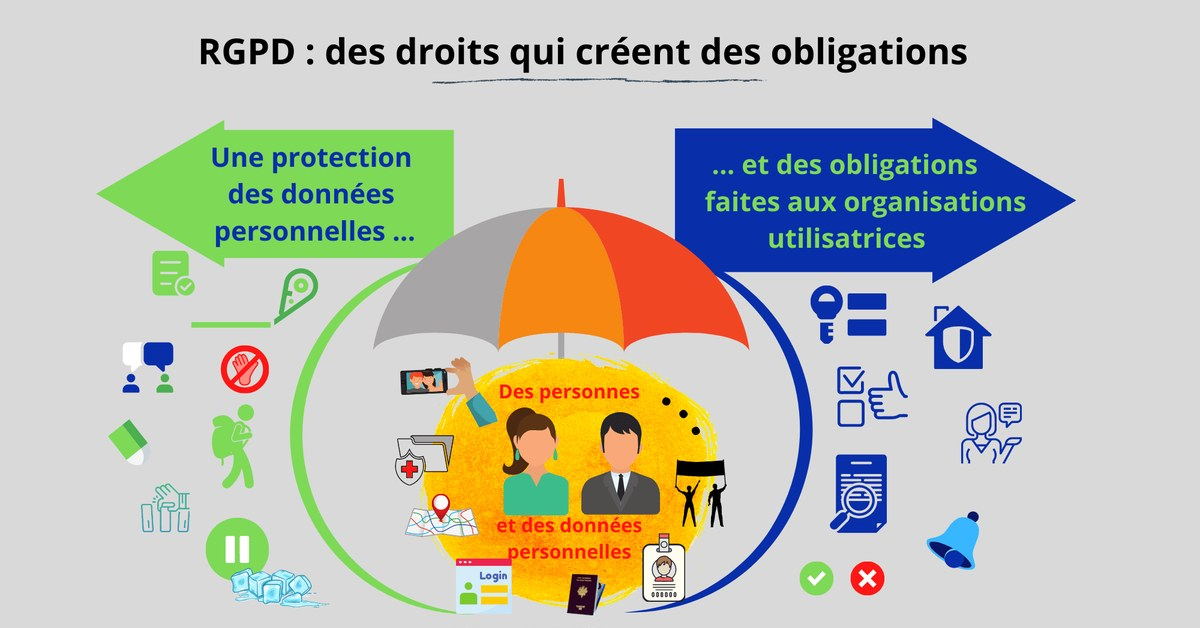
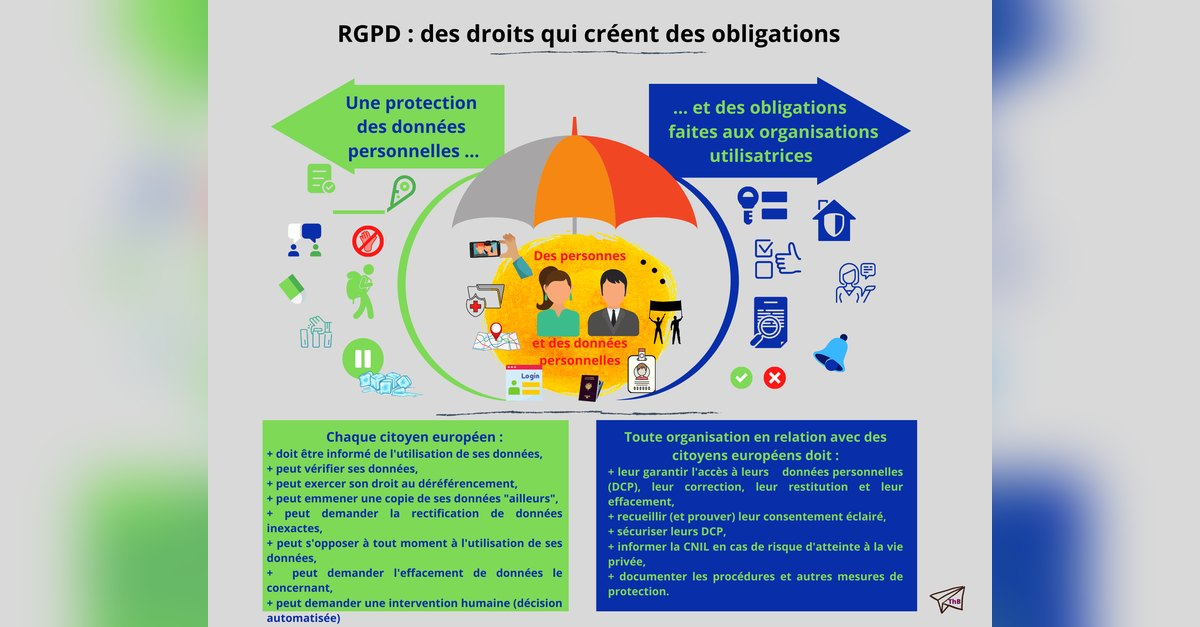
Infographies entières, série hôpital regroupée, visuel Minier recadré
- 16 infographies : carte au format naturel (rien de coupé), aperçu LinkedIn 1200x627 sur fond flou
- série « hôpital ordinaire » : une seule carte dans les listes, bloc des épisodes dans chaque article
- Les Effacées : visuel recadré sur la tête, la couverture et la main

Claude-Session: https://claude.ai/code/session_01Xt9mEEywxdvzQziNeka59o

diff --git a/src/data/series.ts b/src/data/series.ts
@@ -1,0 +1,29 @@
+import { getCollection } from 'astro:content';
+
+// Séries d'articles : un identifiant (champ `serie` de l'en-tête) et un numéro d'épisode (`rang`).
+export const series: Record<string, { titre: string }> = {
+  'hopital-ordinaire': { titre: 'Plongée dans le quotidien d’un hôpital ordinaire' },
+};
+
+type Entree = { id: string; data: { serie?: string; rang?: number; brouillon: boolean; type: string; title: string } };
+
+export async function episodes(serie: string) {
+  const liste = (await getCollection('articles', ({ data }) => !data.brouillon && data.serie === serie)) as Entree[];
+  return liste.sort((a, b) => (a.data.rang ?? 0) - (b.data.rang ?? 0));
+}
+
+// Dans les listes (accueil, sommaire, rubriques), une série ne forme qu'une seule carte :
+// elle prend la place de son épisode le plus récent et renvoie vers l'épisode 1.
+export async function regrouper<T extends Entree>(liste: T[]): Promise<T[]> {
+  const vus = new Set<string>();
+  const sortie: T[] = [];
+  for (const a of liste) {
+    const s = a.data.serie;
+    if (!s) { sortie.push(a); continue; }
+    if (vus.has(s)) continue;
+    vus.add(s);
+    const eps = await episodes(s);
+    sortie.push((eps.find((e) => e.data.rang === 1) as T) ?? a);
+  }
+  return sortie;
+}

diff --git a/src/styles/revue.css b/src/styles/revue.css
@@ -126,6 +126,14 @@
   .video{position:relative;aspect-ratio:16/9;margin:28px 0}
   .video iframe{position:absolute;inset:0;width:100%;height:100%;border:0}
   .card-img{display:block;width:calc(100% + 44px);margin:-24px -22px 18px;aspect-ratio:1.91/1;object-fit:cover;background:var(--line)}
+  .card-img--entiere{aspect-ratio:auto;object-fit:contain;height:auto;background:#fff}
+  /* ---------- série d'articles ---------- */
+  .serie{margin-top:36px;padding:18px 22px;background:var(--card);border-left:3px solid var(--accent)}
+  .serie .eyebrow{display:block;margin-bottom:8px}
+  .serie ol{margin:0;padding-left:20px}
+  .serie li{margin:5px 0;font-size:15px;line-height:1.4}
+  .serie a{color:var(--accent)}
+  .serie li[aria-current]{font-weight:700}
   /* ---------- livres (À propos) ---------- */
   .livres{display:grid;grid-template-columns:repeat(5,1fr);gap:22px}
   @media(max-width:900px){.livres{grid-template-columns:repeat(2,1fr)}}

diff --git a/src/content.config.ts b/src/content.config.ts
@@ -20,6 +20,9 @@ const articles = defineCollection({
     image: z.string().optional(),       // chemin dans /uploads/ (visuel principal)
     image_pano: z.string().optional(),
     vignette: z.string().optional(),
+    carte: z.string().optional(),       // visuel de carte au format naturel (infographies : rien n'est coupé)
+    serie: z.string().optional(),       // identifiant de série (voir src/data/series.ts)
+    rang: z.number().optional(),        // numéro de l'épisode dans la série
     pdf: z.string().optional(),
     ancienne_url: z.string().optional(),
     hashtags: z.array(z.string()).optional(),

diff --git a/scripts/images_infographies.py b/scripts/images_infographies.py
@@ -1,0 +1,37 @@
+"""Infographies : cartes à leur format naturel (rien de coupé) et aperçu LinkedIn 1200x627
+« image entière sur fond flouté » (rien de coupé non plus).
+Usage : python3 scripts/images_infographies.py  (depuis la racine du dépôt)
+Ajoute `carte: "cartes/<nom>.jpg"` et `vignette: "vignettes/<nom>.jpg"` dans l'en-tête de chaque infographie."""
+import glob, re, os
+from PIL import Image, ImageFilter
+
+os.makedirs('public/uploads/cartes', exist_ok=True)
+for f in sorted(glob.glob('src/content/articles/*.md')):
+    t = open(f, encoding='utf-8').read()
+    if 'type: infographie' not in t:
+        continue
+    m = re.search(r'^image: "(.+)"', t, re.M)
+    if not m:
+        continue
+    nom = os.path.basename(f)[:-3][:48]
+    src = Image.open('public/uploads/' + m.group(1)).convert('RGB')
+    w, h = src.size
+    if abs(w / h - 1.91) < 0.02:      # déjà au bon format : rien à faire
+        continue
+    # 1) carte : format naturel, 900 px de large
+    carte = src.resize((900, round(900 * h / w)), Image.LANCZOS)
+    carte.save(f'public/uploads/cartes/{nom}.jpg', quality=84, optimize=True)
+    # 2) aperçu LinkedIn : image entière, centrée, sur fond flou
+    W, H = 1200, 627
+    fond = src.resize((W, round(W * h / w)), Image.LANCZOS)
+    top = (fond.height - H) // 2
+    fond = fond.crop((0, top, W, top + H)).filter(ImageFilter.GaussianBlur(28))
+    fw = round(H * w / h)
+    fg = src.resize((fw, H), Image.LANCZOS)
+    fond.paste(fg, ((W - fw) // 2, 0))
+    fond.save(f'public/uploads/vignettes/{nom}.jpg', quality=86, optimize=True)
+    # 3) en-tête
+    t = re.sub(r'^(carte|vignette): ".*"\n', '', t, flags=re.M)
+    t = t.replace(m.group(0), m.group(0) + f'\nvignette: "vignettes/{nom}.jpg"\ncarte: "cartes/{nom}.jpg"', 1)
+    open(f, 'w', encoding='utf-8').write(t)
+    print('ok', nom, (w, h))

diff --git a/src/content/articles/cyberpirates-hackers-etc-le-jeu-des-7-famillescyberpirates.md b/src/content/articles/cyberpirates-hackers-etc-le-jeu-des-7-famillescyberpirates.md
@@ -9,6 +9,7 @@ une: false
 brouillon: false
 image: "2021/08/infographie_hackers_et_pirates_les_7_familles.png"
 vignette: "vignettes/cyberpirates-hackers-etc-le-jeu-des-7-famillescy.jpg"
+carte: "cartes/cyberpirates-hackers-etc-le-jeu-des-7-famillescy.jpg"
 pdf: ""
 ancienne_url: "https://www.thierrybrenet.fr/infographie/cyberpirates-hackers-etc-le-jeu-des-7-famillescyberpirates/"
 ---

diff --git a/src/content/articles/iso9001-et-magnet-hospitals-ou-comprendre-comment-cette-norme-et-lobjectif-de-ces-ho.md b/src/content/articles/iso9001-et-magnet-hospitals-ou-comprendre-comment-cette-norme-et-lobjectif-de-ces-ho.md
@@ -9,6 +9,7 @@ une: false
 brouillon: false
 image: "2021/04/gd-magnet_hospitals.png"
 vignette: "vignettes/iso9001-et-magnet-hospitals-ou-comprendre-commen.jpg"
+carte: "cartes/iso9001-et-magnet-hospitals-ou-comprendre-commen.jpg"
 pdf: ""
 ancienne_url: "https://www.thierrybrenet.fr/infographie/iso9001-et-magnet-hospitals-ou-comprendre-comment-cette-norme-et-lobjectif-de-ces-ho/"
 ---

diff --git a/src/content/articles/les-effacees-lucia-bernard-minier-frappe-encore-et-ca-fait-tres-mal.md b/src/content/articles/les-effacees-lucia-bernard-minier-frappe-encore-et-ca-fait-tres-mal.md
@@ -8,7 +8,7 @@ date: 2025-06-27
 minutes: 2
 une: false
 brouillon: false
-image: "2025/06/0-bernard_minier_vs_martin_servaz-1.jpg"
+image: "vignettes/les-effacees-bernard-minier.jpg"
 image_pano: "2025/06/berard_minier_cree_lucia.jpg"
 ancienne_url: "https://www.thierrybrenet.fr/article/les-effacees-lucia-bernard-minier-frappe-encore-et-ca-fait-tres-mal/"
 hashtags: ["Polar"]

diff --git a/src/content/articles/comprendre-comment-se-developpe-un-cheval-de-troie.md b/src/content/articles/comprendre-comment-se-developpe-un-cheval-de-troie.md
@@ -9,6 +9,7 @@ une: false
 brouillon: false
 image: "2021/08/cheval_de_troie-1-e1642081562312.png"
 vignette: "vignettes/comprendre-comment-se-developpe-un-cheval-de-tro.jpg"
+carte: "cartes/comprendre-comment-se-developpe-un-cheval-de-tro.jpg"
 pdf: ""
 ancienne_url: "https://www.thierrybrenet.fr/infographie/comprendre-comment-se-developpe-un-cheval-de-troie/"
 ---

diff --git a/src/content/articles/iso-22000-denrees-alimentaires-decouvrez-cette-norme-en-toute-simplicite.md b/src/content/articles/iso-22000-denrees-alimentaires-decouvrez-cette-norme-en-toute-simplicite.md
@@ -9,6 +9,7 @@ une: false
 brouillon: false
 image: "2021/04/iso22000.png"
 vignette: "vignettes/iso-22000-denrees-alimentaires-decouvrez-cette-n.jpg"
+carte: "cartes/iso-22000-denrees-alimentaires-decouvrez-cette-n.jpg"
 pdf: ""
 ancienne_url: "https://www.thierrybrenet.fr/infographie/iso-22000-denrees-alimentaires-decouvrez-cette-norme-en-toute-simplicite/"
 ---

diff --git a/src/content/articles/pegasus-comprendre-ce-risque-cyber-et-lactivite-de-nso-et-son-marche.md b/src/content/articles/pegasus-comprendre-ce-risque-cyber-et-lactivite-de-nso-et-son-marche.md
@@ -9,6 +9,7 @@ une: false
 brouillon: false
 image: "2021/09/nso_group.png"
 vignette: "vignettes/pegasus-comprendre-ce-risque-cyber-et-lactivite-.jpg"
+carte: "cartes/pegasus-comprendre-ce-risque-cyber-et-lactivite-.jpg"
 pdf: ""
 ancienne_url: "https://www.thierrybrenet.fr/infographie/pegasus-comprendre-ce-risque-cyber-et-lactivite-de-nso-et-son-marche/"
 ---

diff --git a/src/content/articles/rgpd-des-protections-qui-creent-des-obligations.md b/src/content/articles/rgpd-des-protections-qui-creent-des-obligations.md
@@ -9,6 +9,7 @@ une: false
 brouillon: false
 image: "2021/08/rgpd__des_drois_qui_creent.png"
 vignette: "vignettes/rgpd-des-protections-qui-creent-des-obligations.jpg"
+carte: "cartes/rgpd-des-protections-qui-creent-des-obligations.jpg"
 pdf: ""
 ancienne_url: "https://www.thierrybrenet.fr/infographie/rgpd-des-protections-qui-creent-des-obligations/"
 ---

diff --git a/src/content/articles/le-ver-informatique-le-comprendre-en-7-points.md b/src/content/articles/le-ver-informatique-le-comprendre-en-7-points.md
@@ -9,6 +9,7 @@ une: false
 brouillon: false
 image: "2021/08/le_ver_informatique-1.png"
 vignette: "vignettes/le-ver-informatique-le-comprendre-en-7-points.jpg"
+carte: "cartes/le-ver-informatique-le-comprendre-en-7-points.jpg"
 pdf: ""
 ancienne_url: "https://www.thierrybrenet.fr/infographie/le-ver-informatique-le-comprendre-en-7-points/"
 ---
